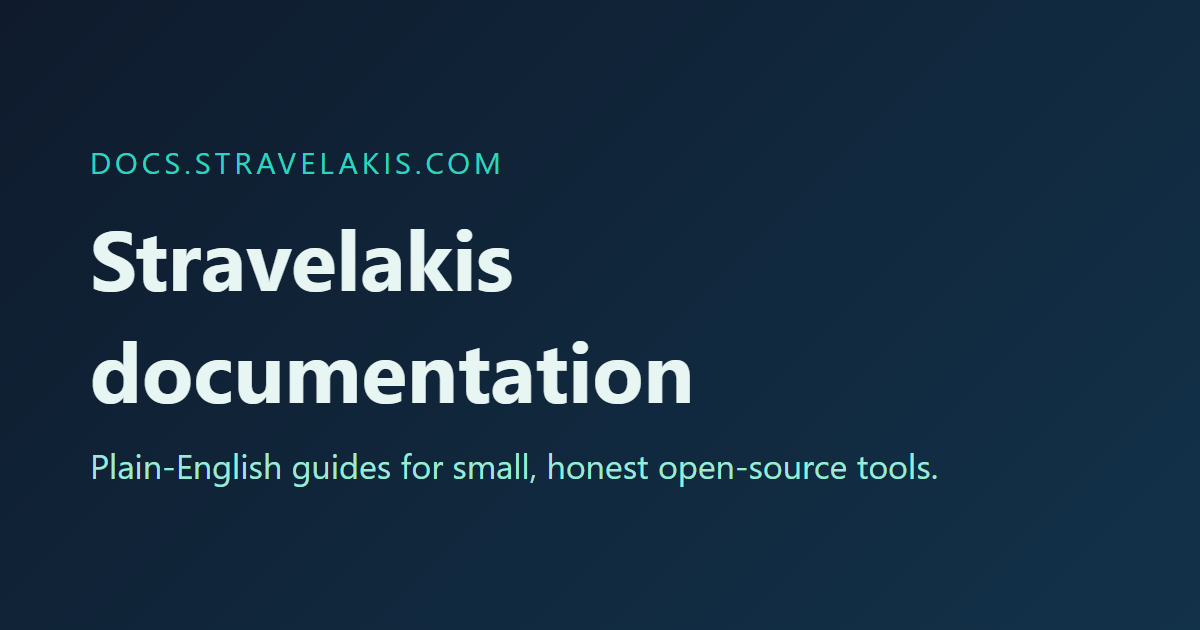
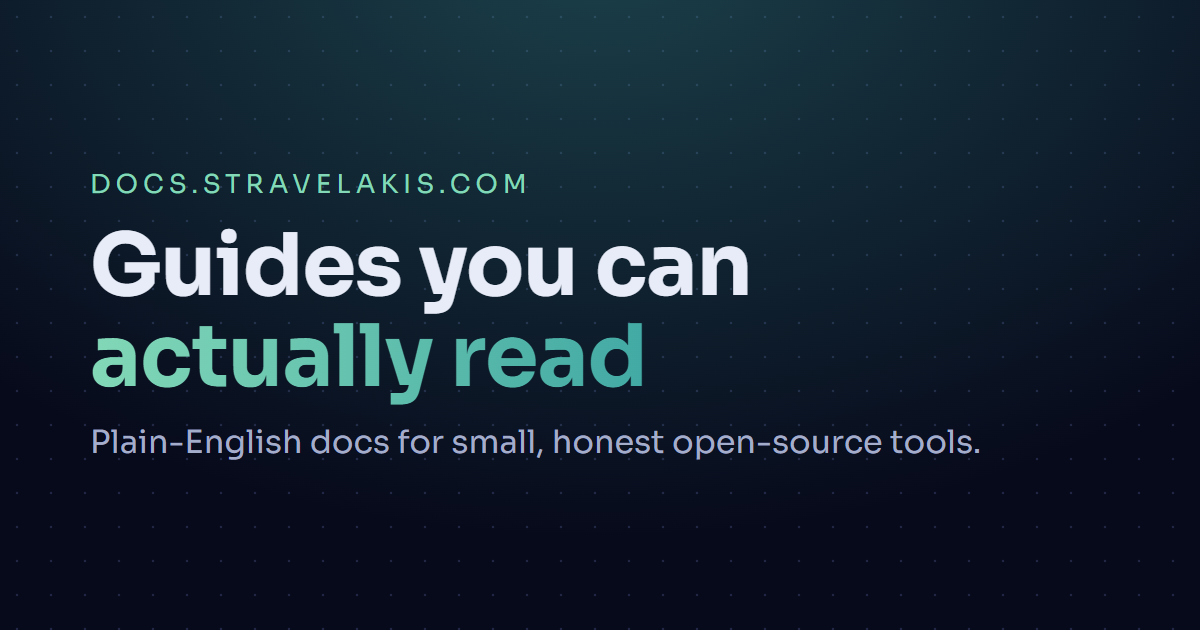
Landing page redesign: docs-theme palette, Sora, dot field, project cards with share images

diff --git a/index.html b/index.html
@@ -4,10 +4,11 @@
   <meta charset="utf-8">
   <meta name="viewport" content="width=device-width, initial-scale=1">
   <title>Stravelakis documentation</title>
-  <meta name="description" content="Plain-English guides for the open-source projects published by Stravelakis: Image Forge, MyStory and more.">
+  <meta name="description" content="Plain-English guides for small, honest open-source tools by Stravelakis: Image Forge, My Story and BlankStare. Every guide in three reading levels.">
   <link rel="canonical" href="https://docs.stravelakis.com/">
   <link rel="icon" href="/favicon.svg" type="image/svg+xml">
-  <meta name="theme-color" content="#0f1b2d">
+  <meta name="theme-color" content="#070a1b">
+  <meta name="author" content="Stravelakis">
   <meta property="og:type" content="website">
   <meta property="og:site_name" content="Stravelakis documentation">
   <meta property="og:title" content="Stravelakis documentation">
@@ -16,47 +17,188 @@
   <meta property="og:image" content="https://docs.stravelakis.com/og-image.png">
   <meta property="og:image:width" content="1200">
   <meta property="og:image:height" content="630">
+  <meta property="og:image:alt" content="Stravelakis documentation: plain-English guides for small, honest open-source tools">
   <meta name="twitter:card" content="summary_large_image">
+  <meta name="twitter:title" content="Stravelakis documentation">
+  <meta name="twitter:description" content="Plain-English guides for small, honest open-source tools.">
   <meta name="twitter:image" content="https://docs.stravelakis.com/og-image.png">
+  <script type="application/ld+json">
+  {"@context":"https://schema.org","@type":"WebSite","name":"Stravelakis documentation","url":"https://docs.stravelakis.com/","publisher":{"@type":"Person","name":"Stravelakis","url":"https://github.com/Stravelakis"}}
+  </script>
+  <link rel="preconnect" href="https://fonts.googleapis.com">
+  <link rel="preconnect" href="https://fonts.gstatic.com" crossorigin>
+  <link href="https://fonts.googleapis.com/css2?family=Sora:wght@400;500;600;700&display=swap" rel="stylesheet">
   <style>
-    :root { color-scheme: light dark; --ink:#0f1b2d; --paper:#f4faf8; --card:#ffffff; --line:#d5e6e1; --accent:#0f8f7e; --muted:#51606d; }
-    @media (prefers-color-scheme: dark) { :root { --ink:#e8f6f3; --paper:#0f1b2d; --card:#14253a; --line:#23405a; --accent:#2dd4bf; --muted:#9fb3c2; } }
-    body { margin:0; font:16px/1.6 system-ui, -apple-system, "Segoe UI", sans-serif; color:var(--ink); background:var(--paper); }
-    main { max-width:760px; margin:0 auto; padding:56px 16px 80px; }
-    h1 { font-size:2rem; margin:0 0 6px; }
-    p.lead { color:var(--muted); margin:0 0 36px; }
+    :root {
+      --navy-950:#070a1b; --navy-900:#0c1130; --navy-800:#151c3f; --navy-500:#344080;
+      --teal-500:#42a9a4; --mint-400:#82d8b7;
+      --bg:var(--navy-950); --text:#e8ecf8; --dim:#a4adca;
+      --surface:color-mix(in srgb, var(--navy-800) 78%, transparent);
+      --border:color-mix(in srgb, var(--navy-500) 55%, transparent);
+      --accent:var(--mint-400);
+      --ease:cubic-bezier(.22,1,.36,1);
+      color-scheme: dark;
+    }
+    *,*::before,*::after { box-sizing:border-box; }
+    html,body { margin:0; }
+    body { background:var(--bg); color:var(--text); font:16px/1.65 "Sora", system-ui, -apple-system, "Segoe UI", sans-serif; -webkit-font-smoothing:antialiased; overflow-x:hidden; }
     a { color:var(--accent); }
-    ul { list-style:none; padding:0; margin:0; }
-    li { background:var(--card); border:1px solid var(--line); border-radius:14px; padding:18px 20px; margin:0 0 14px; }
-    li a.name { font-weight:650; font-size:1.15rem; text-decoration:none; }
-    li p { margin:6px 0 0; color:var(--muted); }
-    li .links { margin-top:8px; font-size:.92rem; }
-    li .links a { margin-right:14px; }
-    footer { margin-top:48px; color:var(--muted); font-size:.9rem; }
+    #dots { position:fixed; inset:0; width:100%; height:100%; z-index:0; pointer-events:none; }
+    .glow { position:fixed; width:820px; height:820px; left:50%; top:-420px; transform:translateX(-50%); background:radial-gradient(closest-side, color-mix(in srgb, var(--teal-500) 30%, transparent), transparent); z-index:0; pointer-events:none; }
+    .wrap { position:relative; z-index:1; max-width:1080px; margin:0 auto; padding:0 16px; }
+    header.top { display:flex; align-items:center; justify-content:space-between; padding:22px 0; }
+    .brand { display:flex; align-items:center; gap:10px; color:var(--text); text-decoration:none; font-weight:600; letter-spacing:.2px; }
+    .brand img { width:30px; height:30px; }
+    .top nav a { color:var(--dim); text-decoration:none; margin-left:20px; font-size:.95rem; }
+    .top nav a:hover { color:var(--text); }
+
+    .hero { text-align:center; padding:72px 0 56px; }
+    .eyebrow { display:inline-block; padding:6px 14px; border:1px solid var(--border); border-radius:999px; color:var(--accent); font-size:.8rem; letter-spacing:2px; text-transform:uppercase; background:color-mix(in srgb, var(--navy-900) 70%, transparent); }
+    h1 { font-size:clamp(2.2rem, 6vw, 3.8rem); line-height:1.08; margin:22px auto 16px; max-width:15ch; font-weight:700; letter-spacing:-.02em; }
+    h1 span { background:linear-gradient(90deg, var(--mint-400), var(--teal-500)); -webkit-background-clip:text; background-clip:text; color:transparent; }
+    .lead { color:var(--dim); font-size:1.15rem; max-width:60ch; margin:0 auto; }
+    .levels { display:flex; justify-content:center; flex-wrap:wrap; gap:10px; margin-top:28px; }
+    .levels span { padding:8px 14px; border-radius:999px; background:var(--surface); border:1px solid var(--border); font-size:.9rem; }
+    .levels b { color:var(--accent); font-weight:600; }
+
+    h2 { font-size:1.5rem; margin:40px 0 18px; letter-spacing:-.01em; }
+    .grid { display:grid; grid-template-columns:repeat(auto-fill, minmax(300px, 1fr)); gap:20px; }
+    .card { display:flex; flex-direction:column; background:var(--surface); border:1px solid var(--border); border-radius:20px; overflow:hidden; backdrop-filter:blur(6px); transition:transform .35s var(--ease), border-color .35s var(--ease), box-shadow .35s var(--ease); }
+    .card:hover { transform:translateY(-4px); border-color:color-mix(in srgb, var(--mint-400) 55%, transparent); box-shadow:0 18px 50px -20px color-mix(in srgb, var(--mint-400) 35%, transparent); }
+    .card .shot { aspect-ratio:1200/630; width:100%; display:block; object-fit:cover; background:var(--navy-900); border-bottom:1px solid var(--border); }
+    .card .ph { aspect-ratio:1200/630; display:grid; place-items:center; background:linear-gradient(135deg, var(--navy-800), var(--navy-900)); border-bottom:1px solid var(--border); font-size:1.6rem; font-weight:700; color:var(--accent); letter-spacing:-.01em; }
+    .card .body { padding:18px 20px 20px; display:flex; flex-direction:column; flex:1; }
+    .card h3 { margin:0; font-size:1.2rem; }
+    .card h3 a { color:var(--text); text-decoration:none; }
+    .card h3 a::after { content:""; position:absolute; inset:0; }
+    .card { position:relative; }
+    .tags { display:flex; flex-wrap:wrap; gap:6px; margin:8px 0 10px; }
+    .tags span { font-size:.72rem; padding:3px 9px; border-radius:999px; background:color-mix(in srgb, var(--mint-400) 12%, transparent); color:var(--accent); }
+    .card p { color:var(--dim); margin:0 0 16px; font-size:.95rem; flex:1; }
+    .links { display:flex; flex-wrap:wrap; gap:8px; position:relative; z-index:2; }
+    .btn { display:inline-block; padding:8px 14px; border-radius:10px; font-size:.88rem; text-decoration:none; border:1px solid var(--border); color:var(--text); transition:background .2s, border-color .2s; }
+    .btn:hover { border-color:var(--accent); }
+    .btn.primary { background:var(--accent); color:var(--navy-950); border-color:var(--accent); font-weight:600; }
+    .btn.primary:hover { background:#9be6c7; }
+
+    .promises { display:grid; grid-template-columns:repeat(auto-fit, minmax(220px, 1fr)); gap:16px; margin-top:8px; }
+    .promise { padding:18px; border-radius:16px; border:1px solid var(--border); background:color-mix(in srgb, var(--navy-900) 70%, transparent); }
+    .promise b { display:block; margin-bottom:4px; }
+    .promise span { color:var(--dim); font-size:.92rem; }
+
+    footer { margin:72px 0 40px; padding-top:24px; border-top:1px solid var(--border); color:var(--dim); font-size:.9rem; display:flex; justify-content:space-between; flex-wrap:wrap; gap:10px; }
+    @media (max-width:560px) { .top nav a:not(:last-child) { display:none; } .hero { padding:48px 0 36px; } }
+    @media (prefers-reduced-motion: reduce) { .card { transition:none; } .card:hover { transform:none; } }
   </style>
 </head>
 <body>
-  <main>
-    <h1>Stravelakis documentation</h1>
-    <p class="lead">Plain-English guides for small, honest open-source tools. Each one explains itself three ways: for developers, in plain English, and for a five-year-old.</p>
-    <ul>
-      <li>
-        <a class="name" href="/image-forge/">Image Forge</a>
-        <p>Make hundreds of AI pictures from one sentence or a spreadsheet, with your own keys. Free engine out of the box; never spends money without asking. Windows app.</p>
-        <div class="links"><a href="/image-forge/">Guides</a><a href="https://github.com/Stravelakis/image-forge/releases/latest">Download</a><a href="https://github.com/Stravelakis/image-forge">Source</a></div>
-      </li>
-      <li>
-        <a class="name" href="/mystory/">MyStory</a>
-        <p>A private, self-hosted journal in Greek or English. Every word stays in plain files on your own machine, ordered by when it happened.</p>
-        <div class="links"><a href="/mystory/">Guides</a><a href="https://github.com/Stravelakis/mystory">Source</a></div>
-      </li>
-      <li>
-        <a class="name" href="https://github.com/Stravelakis/BlankStare-Dev-English-to-English">BlankStare</a>
-        <p>Turns overly complex code-speak into plain English.</p>
-        <div class="links"><a href="https://github.com/Stravelakis/BlankStare-Dev-English-to-English">Source</a></div>
-      </li>
-    </ul>
-    <footer>All projects on <a href="https://github.com/Stravelakis">GitHub</a>.</footer>
-  </main>
+  <canvas id="dots" aria-hidden="true"></canvas>
+  <div class="glow" aria-hidden="true"></div>
+  <div class="wrap">
+    <header class="top">
+      <a class="brand" href="/"><img src="/favicon.svg" alt="">Stravelakis docs</a>
+      <nav><a href="#projects">Projects</a><a href="#promise">The promise</a><a href="https://github.com/Stravelakis">GitHub</a></nav>
+    </header>
+
+    <section class="hero">
+      <span class="eyebrow">docs.stravelakis.com</span>
+      <h1>Guides you can <span>actually read</span></h1>
+      <p class="lead">Documentation for small, honest open-source tools. No jargon for the sake of it, no inflated claims, and every limitation written down.</p>
+      <div class="levels" aria-label="Every guide comes in three reading levels">
+        <span><b>Dev</b> · for developers</span>
+        <span><b>Plain</b> · plain English</span>
+        <span><b>ELI5</b> · explain it like I'm five</span>
+      </div>
+    </section>
+
+    <section id="projects">
+      <h2>Projects</h2>
+      <div class="grid">
+        <article class="card">
+          <img class="shot" src="/image-forge/og-image.png" alt="Image Forge" loading="lazy" width="1200" height="630">
+          <div class="body">
+            <h3><a href="/image-forge/">Image Forge</a></h3>
+            <div class="tags"><span>Windows app</span><span>AI images</span><span>Free engine built in</span></div>
+            <p>Make hundreds of AI pictures from one sentence or a spreadsheet, with your own keys. Never spends money without asking. Updates itself; opens in a window or your browser.</p>
+            <div class="links">
+              <a class="btn primary" href="/image-forge/">Read the guides</a>
+              <a class="btn" href="https://github.com/Stravelakis/image-forge/releases/latest">Download</a>
+              <a class="btn" href="https://github.com/Stravelakis/image-forge">Source</a>
+            </div>
+          </div>
+        </article>
+        <article class="card">
+          <img class="shot" src="/mystory/og-image.png" alt="My Story" loading="lazy" width="1200" height="630">
+          <div class="body">
+            <h3><a href="/mystory/">My Story</a></h3>
+            <div class="tags"><span>Self-hosted</span><span>Greek &amp; English</span><span>Private</span></div>
+            <p>A private journal: speak or write, keep every word in plain files on your own machine, order your life by when it happened, and name what happened with quotes.</p>
+            <div class="links">
+              <a class="btn primary" href="/mystory/">Read the guides</a>
+              <a class="btn" href="https://github.com/Stravelakis/mystory">Source</a>
+            </div>
+          </div>
+        </article>
+        <article class="card">
+          <div class="ph" aria-hidden="true">BlankStare</div>
+          <div class="body">
+            <h3><a href="https://github.com/Stravelakis/BlankStare-Dev-English-to-English">BlankStare</a></h3>
+            <div class="tags"><span>Translator</span><span>Dev → English</span></div>
+            <p>Your personal translator for terminal-induced confusion: turns overly complex code-speak into plain English. Guides coming soon.</p>
+            <div class="links">
+              <a class="btn primary" href="https://github.com/Stravelakis/BlankStare-Dev-English-to-English">Source</a>
+            </div>
+          </div>
+        </article>
+      </div>
+    </section>
+
+    <section id="promise">
+      <h2>The promise every project keeps</h2>
+      <div class="promises">
+        <div class="promise"><b>Free first</b><span>A free way in, always. Paid options are optional and never gated behind signups you don't need.</span></div>
+        <div class="promise"><b>Never spends without asking</b><span>Anything that costs money stops and shows the price first.</span></div>
+        <div class="promise"><b>Your data stays yours</b><span>Keys and files live on your machine and go only where you send them.</span></div>
+        <div class="promise"><b>Limits in writing</b><span>What doesn't work yet is in the docs, under a heading that admits it.</span></div>
+      </div>
+    </section>
+
+    <footer>
+      <span>© Stravelakis · open source</span>
+      <span><a href="https://github.com/Stravelakis">github.com/Stravelakis</a></span>
+    </footer>
+  </div>
+
+  <script>
+    // A quiet field of dots that drifts toward the pointer. Stops when the
+    // tab is hidden and does nothing at all for reduced-motion readers.
+    (() => {
+      const c = document.getElementById("dots"), x = c.getContext("2d");
+      const still = matchMedia("(prefers-reduced-motion: reduce)").matches;
+      let w, h, dpr, pts = [], mx = -1e4, my = -1e4, raf;
+      const size = () => {
+        dpr = Math.min(devicePixelRatio || 1, 2);
+        w = c.width = innerWidth * dpr; h = c.height = innerHeight * dpr;
+        pts = []; const gap = 34 * dpr;
+        for (let y = gap / 2; y < h; y += gap) for (let X = gap / 2; X < w; X += gap) pts.push({ x: X, y, ox: X, oy: y });
+      };
+      const draw = () => {
+        x.clearRect(0, 0, w, h);
+        for (const p of pts) {
+          const dx = mx - p.ox, dy = my - p.oy, d = Math.hypot(dx, dy), r = 160 * dpr;
+          const k = d < r ? (1 - d / r) : 0;
+          p.x += (p.ox + dx * k * 0.18 - p.x) * 0.12; p.y += (p.oy + dy * k * 0.18 - p.y) * 0.12;
+          x.fillStyle = k ? `rgba(130,216,183,${0.18 + k * 0.6})` : "rgba(125,137,214,0.16)";
+          x.beginPath(); x.arc(p.x, p.y, (1.1 + k * 1.6) * dpr, 0, 6.283); x.fill();
+        }
+        if (!still) raf = requestAnimationFrame(draw);
+      };
+      addEventListener("resize", () => { size(); if (still) draw(); });
+      addEventListener("pointermove", (e) => { mx = e.clientX * dpr; my = e.clientY * dpr; });
+      addEventListener("pointerleave", () => { mx = my = -1e4; });
+      document.addEventListener("visibilitychange", () => { cancelAnimationFrame(raf); if (!document.hidden && !still) draw(); });
+      size(); draw();
+    })();
+  </script>
 </body>
 </html>
